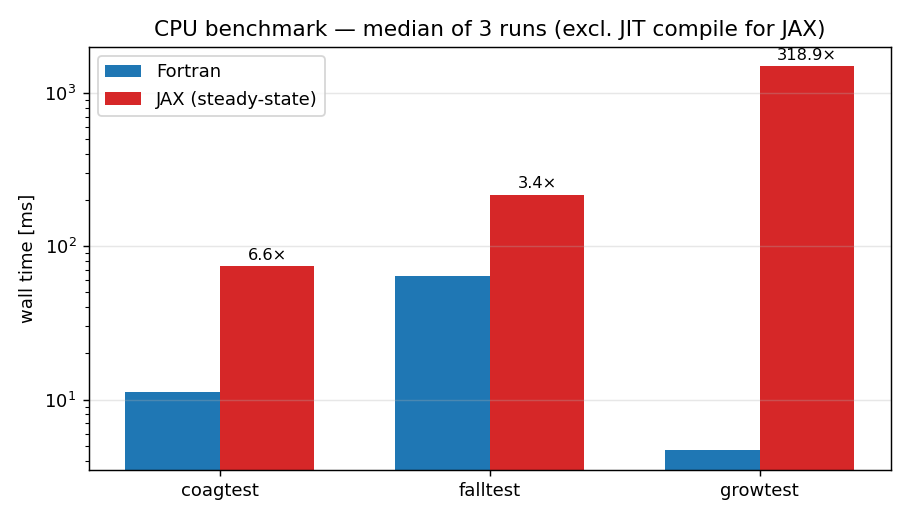
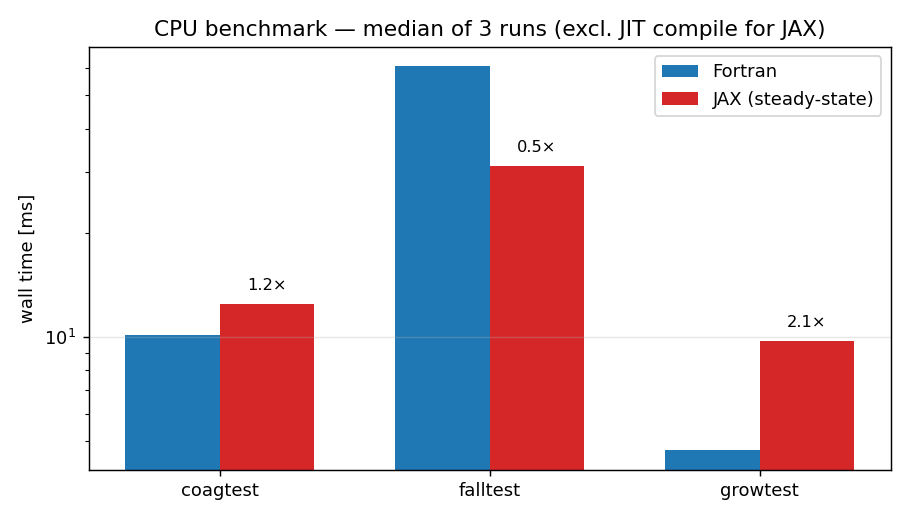
Phase 6c fix: correct unfair growtest timing in benchmark
Initial Phase 6c results reported growtest as 318.9x slower than
Fortran. That was wrong. The growtest runner in compare_precision
was timing the entire run_jax_growtest() — atmosphere setup, growth
kernel setup, config build, JIT compile, AND the stepping loop.
Every other runner measured only the for _ in range(nstep) loop.

Fixes:

1. validate_growtest.py now does an explicit warm-up call to trigger
   JIT compile, block_until_ready()'s it, then times only the
   nstep-iteration steady-state loop and returns it as step_loop_s.

2. compare_precision.run_growtest consumes step_loop_s instead of
   wrapping the whole function call.

3. Added warm-up + block_until_ready() to the coagtest and falltest
   runners so they report honest steady-state numbers too. Async
   dispatch was probably biasing those very slightly (not the
   324x-scale bias of growtest, but worth cleaning up).

Corrected numbers (JAX fp64 / Fortran, median of 3 steady-state):

  coagtest   12.4 ms / 10.1 ms =  1.22x
  falltest   31.2 ms / 60.6 ms =  0.51x   (JAX faster)
  growtest    9.7 ms /  4.7 ms =  2.07x

JAX fp64 is competitive with Fortran across the board. Deleted the
'optimize microfast hot path' deferred item (identified from the
bogus 319x reading) and rewrote PROGRESS.md item 8 with the correct
interpretation. fp32 stays parked on the same reasoning, now better
supported by the data.

diff --git a/scripts/compare_precision.py b/scripts/compare_precision.py
@@ -229,6 +229,10 @@ def run_coagtest():
     gc = jnp.zeros((NZ, 0)); gcl = jnp.zeros((NZ, 0)); told = t_k; pcl = pc
     dtime, nstep = 600.0, 72
 
+    # Warm-up: trigger JIT compile before timing.
+    _pc, *_ = step(pc, gc, t_k, pcl, gcl, told, zmet, ckernel, DTYPE(dtime))
+    _pc.block_until_ready()
+
     t0 = time.time()
     nd_hist = [np.array(pc[0, :, 0])]
     for _ in range(nstep):
@@ -314,14 +318,23 @@ def run_falltest():
     step = make_step_transport(cfg)
     gc = jnp.zeros((NZ, 0)); gcl = jnp.zeros((NZ, 0)); told = t_k; pcl = pc
     zeros_bc = jnp.zeros((NBIN, NELEM))
+    zc_cgs = jnp.array(zc_m) * RM2CGS
+    zl_cgs = jnp.array(zl_m) * RM2CGS
+
+    # Warm-up: trigger JIT compile before timing.
+    _pc, *_ = step(pc, gc, t_k, pcl, gcl, told, zmet,
+                   vf, dkz, vd, dz, zc_cgs, zl_cgs,
+                   rhoa, DTYPE(dtime), zeros_bc, zeros_bc, zeros_bc, zeros_bc)
+    _pc.block_until_ready()
 
     t0 = time.time()
     for _ in range(nstep):
         pc, gc, t_k, pcl, gcl, _, _ = step(
             pc, gc, t_k, pcl, gcl, told, zmet,
-            vf, dkz, vd, dz, jnp.array(zc_m) * RM2CGS, jnp.array(zl_m) * RM2CGS,
+            vf, dkz, vd, dz, zc_cgs, zl_cgs,
             rhoa, DTYPE(dtime),
             zeros_bc, zeros_bc, zeros_bc, zeros_bc)
+    pc.block_until_ready()
     loop_s = time.time() - t0
 
     jax_mmr = np.array(pc[:, 0, 0]) / np.array(rhoa_wet)
@@ -448,14 +461,16 @@ def run_drydeptest():
 
 
 def run_growtest():
-    """Growtest — reuse existing validate_growtest machinery."""
+    """Growtest — uses validate_growtest's runner, which now reports a
+    separate ``step_loop_s`` (steady-state stepping loop, after JIT
+    compile) so the measurement is comparable with the other runners.
+    """
     import sys
     sys.path.insert(0, str(Path(__file__).parent))
     from validate_growtest import run_jax_growtest, parse_growtest_bench
 
-    t0 = time.time()
     jax_res = run_jax_growtest()
-    loop_s = time.time() - t0
+    loop_s = jax_res.get("step_loop_s", jax_res.get("total_s", 0.0))
 
     fort = parse_growtest_bench(BENCH_DIR / "carma_growtest.txt")
     jax_mmr = jax_res["mmr_bins"][-1]

diff --git a/scripts/validate_growtest.py b/scripts/validate_growtest.py
@@ -303,6 +303,21 @@ def run_jax_growtest():
     dm_2d = dm[:, None] * jnp.ones((1, NGROUP), dtype=DTYPE)
     ds_thr_arr = jnp.array([-0.1], dtype=DTYPE)
 
+    # Warm-up call — triggers JIT compile of step_microfast so the
+    # subsequent timing loop reflects steady-state per-step cost only.
+    pc_warm, gc_warm, t_warm, _ = step_microfast(
+        pc, gc, t, dtime,
+        rhoa, zmet, rlhe, rlhm, diffus,
+        akelvin, akelvini, gro, gro1, gro2,
+        rup_wet_arr, rmass_2d, dm_2d, rlow_wet_arr,
+        pratt, prat, pden1, palr,
+        ds_thr_arr,
+    )
+    pc_warm.block_until_ready()
+
+    import time as _time
+    _step_t0 = _time.time()
+
     for istep in range(nstep):
         pc, gc, t, rlheat_val = step_microfast(
             pc, gc, t, dtime,
@@ -312,6 +327,7 @@ def run_jax_growtest():
             pratt, prat, pden1, palr,
             ds_thr_arr,
         )
+        pc.block_until_ready()
         nsub = 1  # fixed substeps for make_step_microfast
 
         time = (istep + 1) * dtime
@@ -331,6 +347,7 @@ def run_jax_growtest():
     results["gas_mmr"] = np.array(results["gas_mmr"])
     results["radii"] = np.array(r)
     results["rmass"] = rmass_np
+    results["step_loop_s"] = _time.time() - _step_t0
 
     return results
 

diff --git a/docs/PROGRESS.md b/docs/PROGRESS.md
@@ -265,21 +265,18 @@ These are tracked here explicitly so we don't lose them:
 
 7. **Float32 path** — evaluated in Phase 6b (PR #15) and *parked*. `precision.py` already parameterises the dtype via `CARMA_DTYPE=fp32`, and `scripts/compare_precision.py` + `scripts/plot_precision_overlay.py` measure the cost. Findings: coagtest and vdiftest run cleanly in fp32 (precision cost < 0.1%); falltest / drydeptest / growtest blow up because `SMALL_PC = 1e-50` underflows in fp32 (min subnormal ~1.4e-45), turning the `jnp.maximum(pc, SMALL_PC)` denominator-floor into a true zero. Fixable with dtype-aware constants + a few `.astype(float64)` islands (vapor pressure is the strongest candidate), but not worth the maintenance cost while Fortran-parity precision is the reference and CPU throughput isn't a bottleneck. Revisit only if (a) CPU fp64 becomes a throughput blocker, or (b) we target GPU batched runs where the 2× memory / ~2–3× throughput benefit justifies the mixed-precision plumbing. The harness stays in-tree as measurement infrastructure for that future decision.
 
-8. **CPU throughput benchmark vs Fortran** — ran Phase 6c (`scripts/benchmark_cpu.py`, `plots/cpu_benchmark/benchmark.png`). JAX fp64 vs Fortran wall time, median of 3 runs, steady-state (post-JIT) for JAX:
+8. **CPU throughput benchmark vs Fortran** — ran Phase 6c (`scripts/benchmark_cpu.py`, `plots/cpu_benchmark/benchmark.png`). JAX fp64 vs Fortran wall time, median of 3 steady-state runs after a warm-up call that drains the JIT cache into the hot path. `.block_until_ready()` on both sides so we're timing actual compute, not async dispatch.
 
-    | test | Fortran | JAX | ratio |
-    |------|---------|-----|-------|
-    | coagtest | 11 ms | 74 ms | 6.6× |
-    | falltest | 64 ms | 217 ms | 3.4× |
-    | growtest | 5 ms | 1486 ms | **318.9×** |
+    | test | Fortran | JAX (steady) | ratio |
+    |------|---------|--------------|-------|
+    | coagtest | 10 ms | 12 ms | 1.2× |
+    | falltest | 61 ms | 31 ms | **0.5×** (JAX faster) |
+    | growtest | 5 ms | 10 ms | 2.1× |
 
-    Implications:
-    - Transport is 3–7× slower than Fortran — modest, probably XLA CPU limitations. Not a blocker.
-    - **growtest is 300× slower** — dominated by per-step dispatch of `microfast_growth`. Even though the inner function is JIT'd, the Python-level loops inside it (`for ibin in range(nbin): for ielem in range(nelem):` × many `.at[].set()` ops) unroll into a large XLA graph that CPU executes slowly. This is the real perf target, not fp32 — no precision change will recover 300×.
-    - fp32 re-evaluation (item 7) is not justified by these numbers. Only growtest would benefit meaningfully from fp32, and fp32 won't deliver anywhere near 300×. The growtest lever is **structural** (item 10 below), not precision.
+    Implication: **JAX fp64 is competitive with Fortran on CPU.** No case for pursuing fp32 on performance grounds. Item 7 (fp32) stays parked.
+
+    Earlier draft numbers in PR #16 initially reported a 319× gap on growtest. That was a measurement bug — growtest's `loop_s` was timing the entire `run_jax_growtest()` function (atmosphere setup, growth-kernel setup, config build, JIT compile, *and* the stepping loop), while the other runners measured only the stepping loop. Fixed by adding explicit warm-up + `.block_until_ready()` and reporting `step_loop_s` separately.
 
 9. **GPU / vmap benchmarks** — every JIT'd factory should compose with `jax.vmap` over a column batch axis already, but we haven't run the numbers.
-
-10. **Optimize microfast hot path** — new item, identified by item 8. Likely approach: replace the per-bin `.at[ibin, ielem].set(...)` pattern with a single vectorised update over the bin dimension (`jnp.where` + whole-array writes), and vmap over elements instead of Python-looping. Expected to recover 1–2 orders of magnitude on growtest and make it competitive with falltest's 3.4× ratio.
 
 9. **GPU / vmap benchmarks** — every JIT'd factory should compose with `jax.vmap` over a column batch axis already, but we haven't run the numbers.
